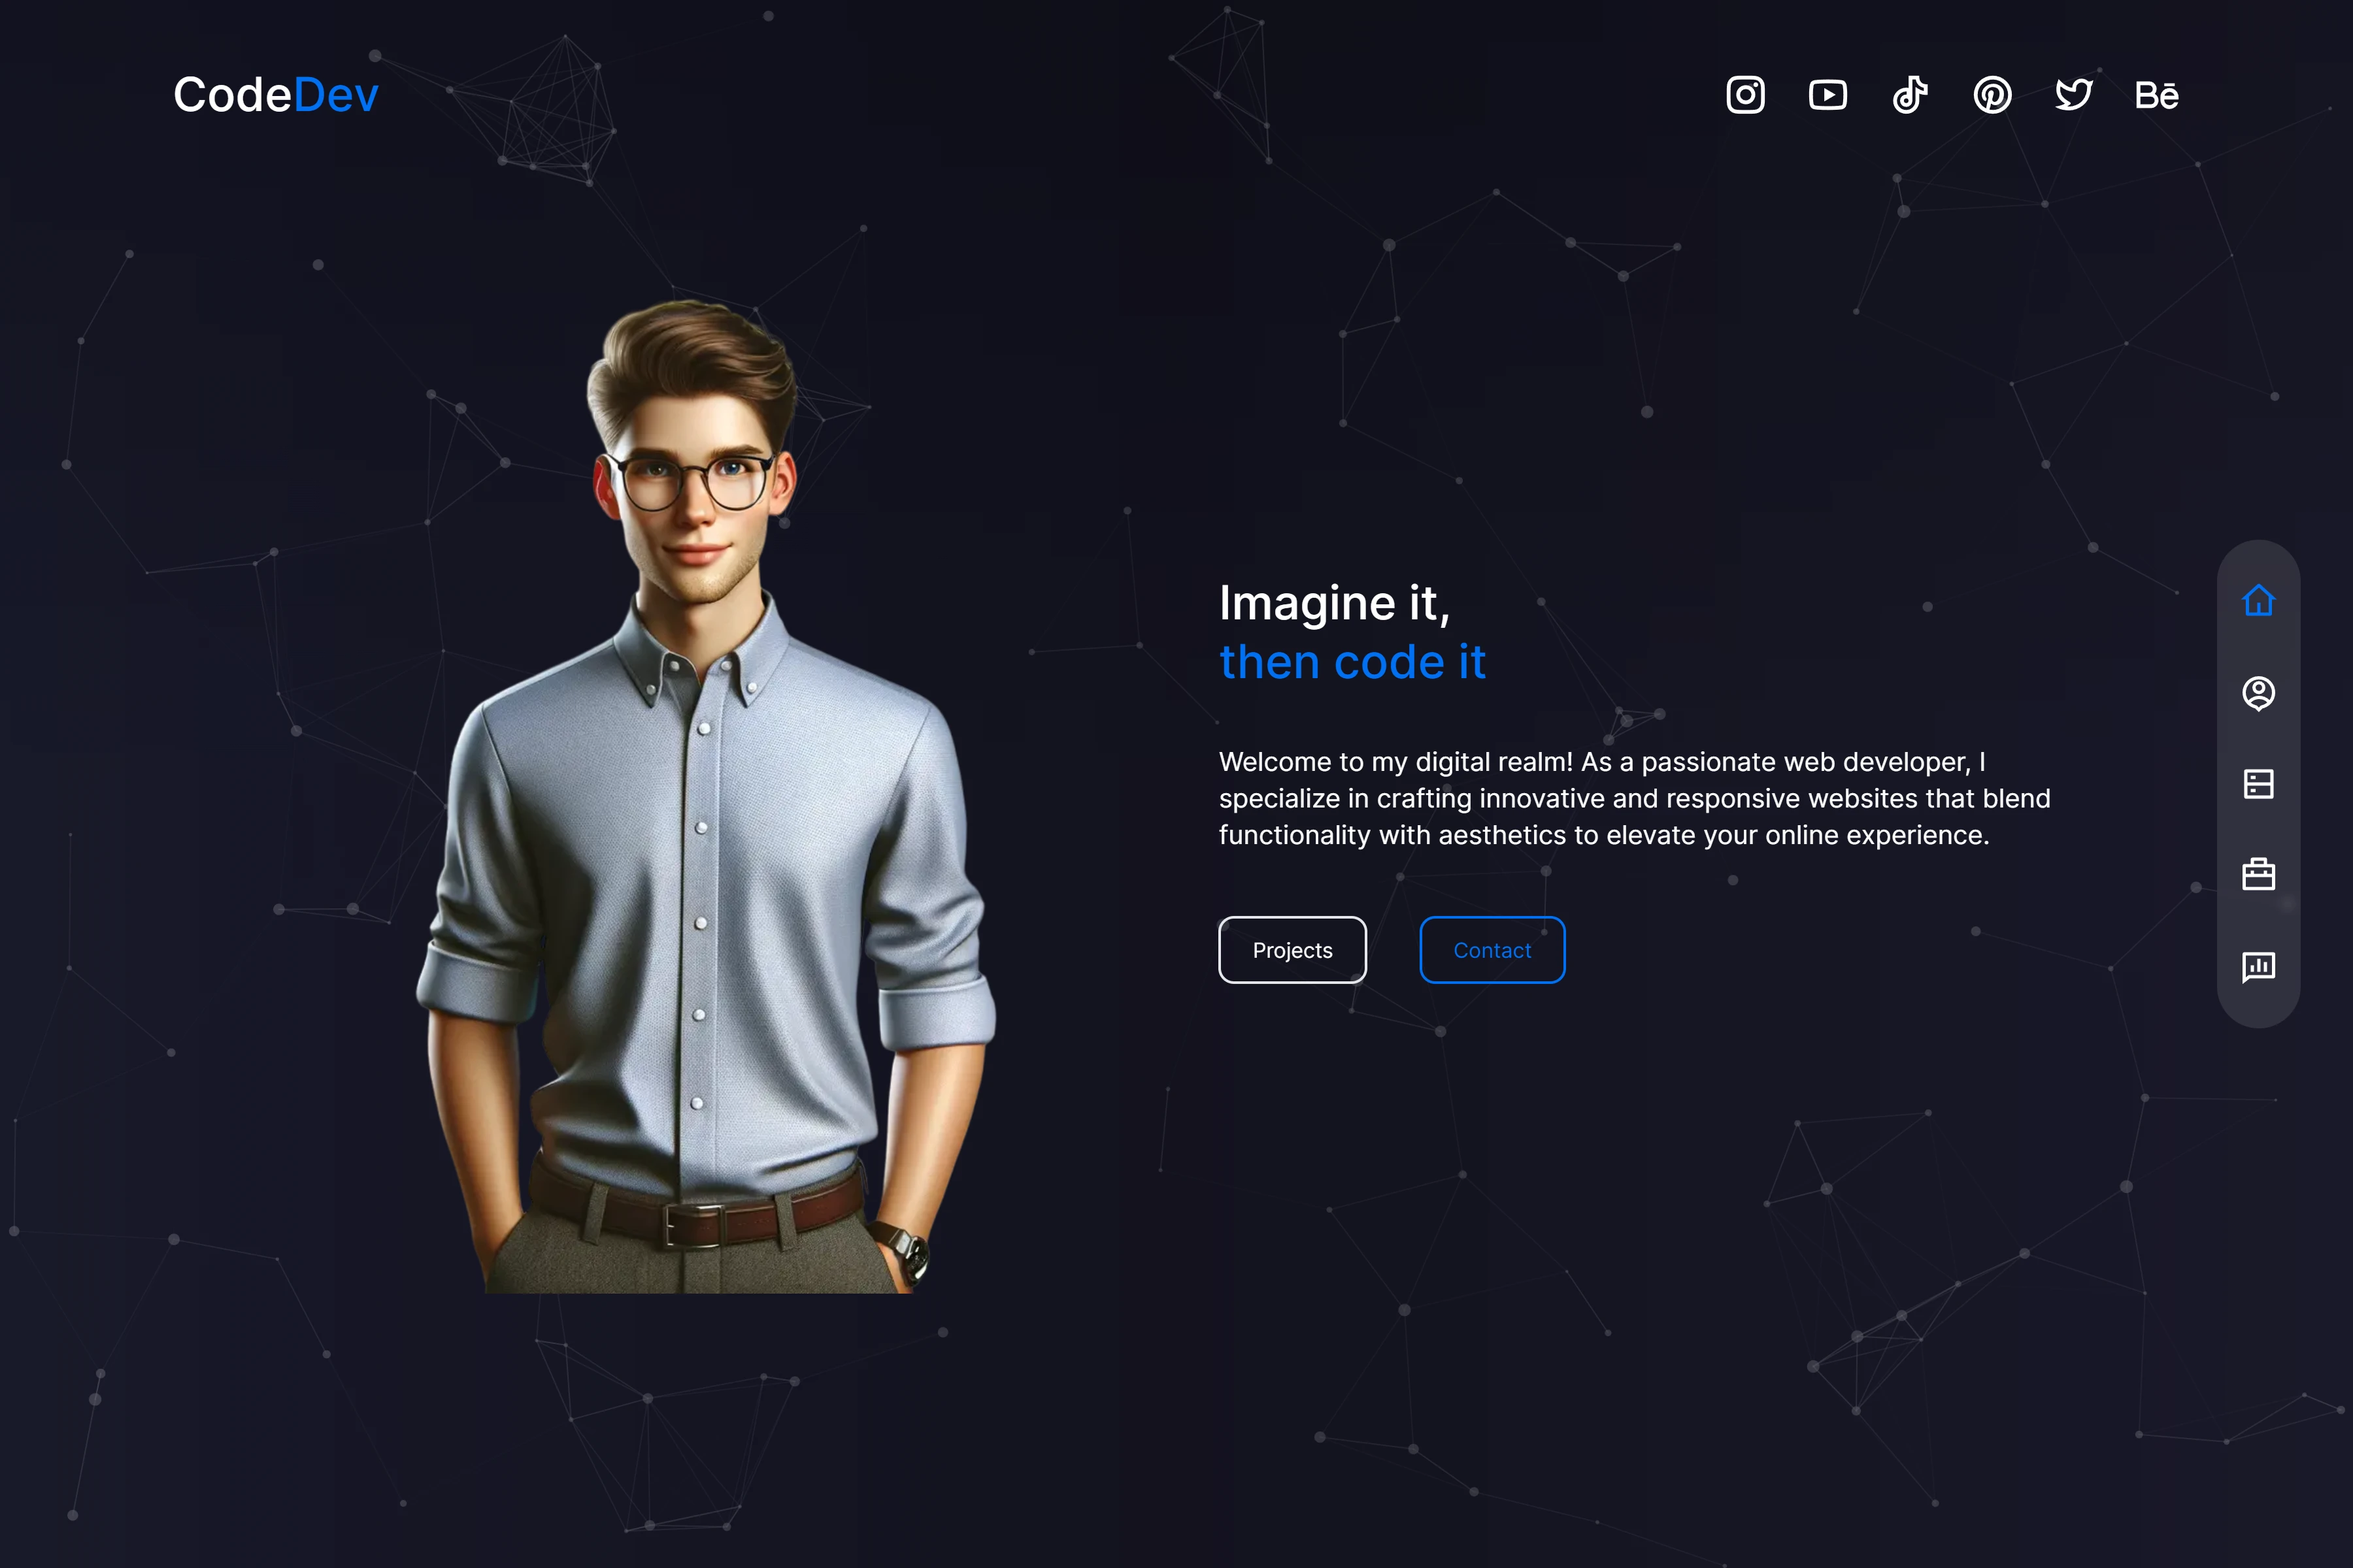
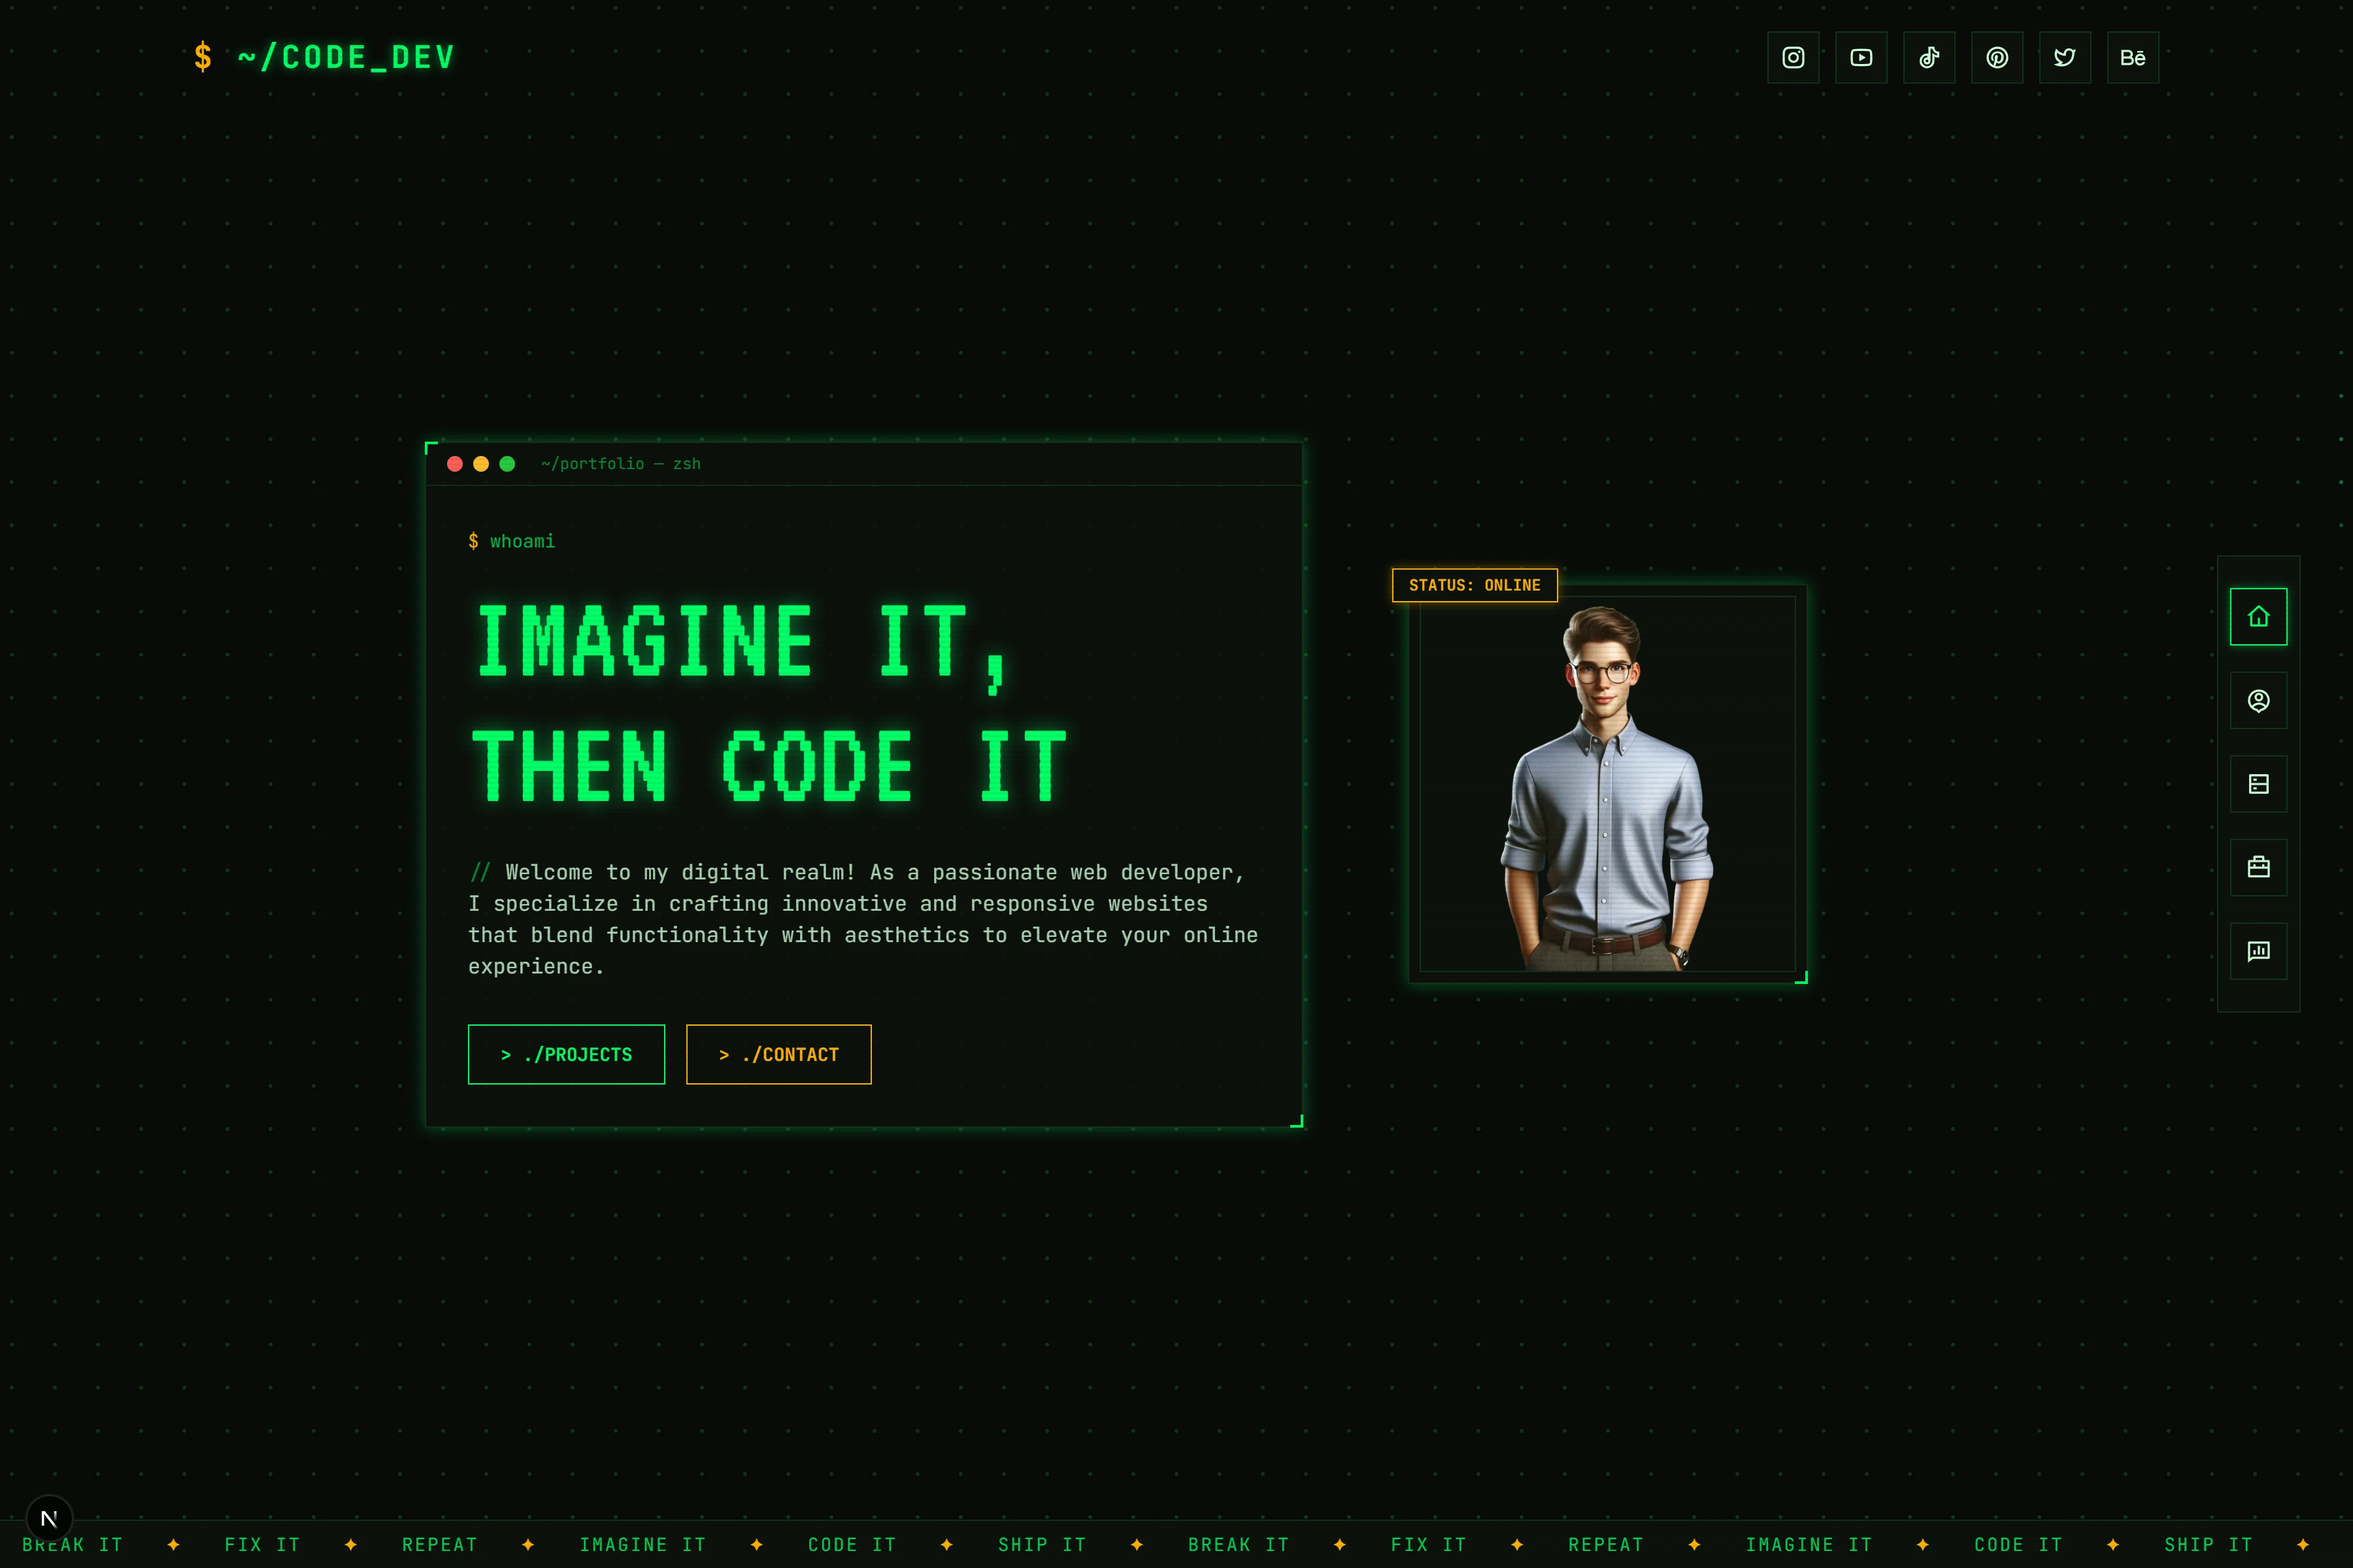
docs: sync README from studio

diff --git a/README.md b/README.md
@@ -38,7 +38,7 @@
 </div>
 
 <div align='center'>
-  A modern portfolio website built with Next.js 14, TypeScript, and Tailwind CSS. Features smooth page transitions, interactive particle animations, service showcases, project galleries, customer testimonials, and a contact form.
+  A modern portfolio website built with Next.js 14, TypeScript, and Tailwind CSS. Features smooth page transitions, interactive particle animations, service showcases, project galleries, customer testimonials, and a contact form.d
 
   [Demo][demo-link] · [Report issue](/issues) · [Suggest something](/issues)
 </div>
@@ -206,7 +206,7 @@ This project is licensed under the [MIT License](LICENSE).
 
 <!-- Status badges -->
 [demo]: https://img.shields.io/badge/🚀%20Live%20Demo-black?style=for-the-badge
-[demo-link]: {{DEMO_URL}}
+[demo-link]: https://portfolio-web-eight-tau.vercel.app
 [status]: https://img.shields.io/endpoint?url=https%3A%2F%2Fraw.githubusercontent.com%2Fwrujel%2Fmonitor-repos%2Fmain%2Fdata%2Fportfolio-web-template.json&style=for-the-badge
 [status-link]: https://github.com/wrujel/monitor-repos
 [deploy]: https://img.shields.io/github/deployments/wrujel/portfolio-web-template/production?style=for-the-badge&label=Deploy
